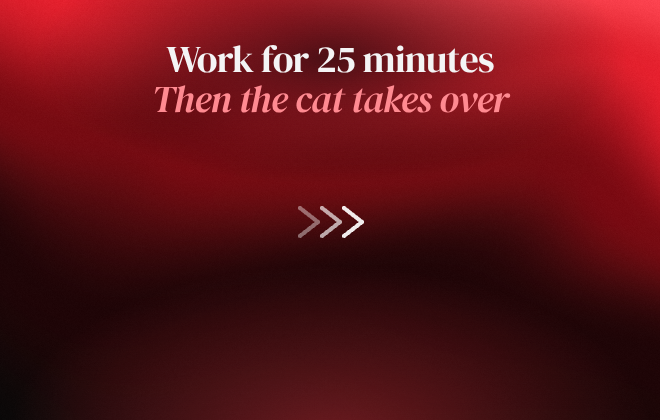
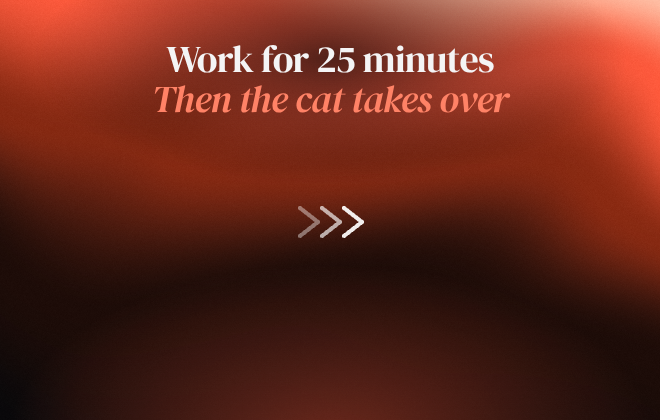
fix(site): go back to the original tomato red
Fé wants the red the site already used (#ff5a3c), not a new crimson.
Restore the original palette and gradient; keep only the F4-style
change: the italic second headline line in the accent (#ff8266) on
the site, the DMG and the social cards. DMG and OG renders refreshed.

Claude-Session: https://claude.ai/code/session_01NzgfqLUAp8qdYXdL5QLj3A

diff --git a/site/styles.css b/site/styles.css
@@ -1,5 +1,5 @@
 /* Maramao website. Plain CSS, no build step. DM Serif Display for the wordmark and headings, system fonts for the rest.
-   Dark, like a Mac app's own site: one accent (Maramao red), hairline borders, a grainy glow behind the hero. */
+   Dark, like a Mac app's own site: one accent (tomato), hairline borders, a grainy glow behind the hero. */
 
 :root {
   --bg: #08080a;
@@ -11,8 +11,8 @@
   --ink: #f4f4f5;
   --muted: #a1a1aa;
   --dim: #71717a;
-  --accent: #ff3b47;
-  --accent-soft: rgb(255 59 71 / 16%);
+  --accent: #ff5a3c;
+  --accent-soft: rgb(255 90 60 / 16%);
   --radius: 18px;
   --wrap: 1120px;
   --display: "DM Serif Display", "New York", Georgia, "Times New Roman", serif;
@@ -96,7 +96,7 @@ p { margin: 0; }
 .hero { position: relative; isolation: isolate; margin-top: -66px; padding: 176px 0 40px; text-align: center; }
 .grainient {
   position: absolute; inset: 0 0 auto; height: min(1100px, 100%); z-index: -1; overflow: hidden; pointer-events: none;
-  background: radial-gradient(60% 50% at 50% 70%, rgb(255 59 71 / 35%), transparent 70%), radial-gradient(40% 40% at 70% 40%, rgb(122 10 18 / 45%), transparent 70%), var(--bg);
+  background: radial-gradient(60% 50% at 50% 70%, rgb(255 90 60 / 35%), transparent 70%), radial-gradient(40% 40% at 70% 40%, rgb(138 42 18 / 45%), transparent 70%), var(--bg);
   -webkit-mask-image: linear-gradient(to bottom, transparent, #000 160px, #000 60%, transparent);
   mask-image: linear-gradient(to bottom, transparent, #000 160px, #000 60%, transparent);
 }
@@ -105,7 +105,7 @@ p { margin: 0; }
 /* A soft dark veil keeps the headline readable over the brightest part of the gradient */
 .grainient::after { content: ""; position: absolute; inset: 0; background: radial-gradient(70% 45% at 50% 22%, rgb(8 8 10 / 72%), transparent 75%); }
 .hero h1 { font-size: clamp(44px, 7.4vw, 84px); letter-spacing: -.02em; max-width: 13em; margin: 0 auto; }
-.hero h1 span { color: #ff8a91; font-style: italic; }
+.hero h1 span { color: #ff8266; font-style: italic; }
 .hero .lead { margin: 22px auto 0; font-size: 19px; color: rgb(244 244 245 / 72%); max-width: 30em; }
 .ctas { display: flex; flex-wrap: wrap; justify-content: center; gap: 12px; margin-top: 36px; }
 .meta { margin-top: 16px; font-size: 13px; color: rgb(244 244 245 / 50%); }
@@ -132,9 +132,9 @@ p { margin: 0; }
 .desk {
   position: absolute; inset: 0;
   background:
-    radial-gradient(80% 70% at 15% 100%, #ff3b47 0%, transparent 60%),
+    radial-gradient(80% 70% at 15% 100%, #ff7a45 0%, transparent 60%),
     radial-gradient(70% 70% at 90% 10%, #6b2bd1 0%, transparent 60%),
-    linear-gradient(160deg, #3b1a5a, #c20c1c);
+    linear-gradient(160deg, #3b1a5a, #c2410c);
 }
 .win {
   position: absolute; left: 12%; right: 12%; top: 12%; bottom: 8%; border-radius: 12px; overflow: hidden;
@@ -217,12 +217,12 @@ section[id] { scroll-margin-top: 84px; }
 .k-space { width: calc(var(--k) * 5); }
 .key svg { width: 14px; height: 14px; }
 .key.hot {
-  color: #fff; background: linear-gradient(180deg, #3a1013, #2a0a0d); border-color: rgb(255 59 71 / 55%);
-  box-shadow: inset 0 1px 0 rgb(255 255 255 / 10%), 0 3px 0 #1a0507, 0 0 0 1px rgb(255 59 71 / 25%), 0 0 36px rgb(255 59 71 / 45%);
+  color: #fff; background: linear-gradient(180deg, #3a1d16, #2a130e); border-color: rgb(255 90 60 / 55%);
+  box-shadow: inset 0 1px 0 rgb(255 255 255 / 10%), 0 3px 0 #1a0906, 0 0 0 1px rgb(255 90 60 / 25%), 0 0 36px rgb(255 90 60 / 45%);
   animation: press 3.2s ease-in-out infinite;
 }
 .kb-row:nth-child(3) .key.hot { animation-delay: .12s; }
-@keyframes press { 0%, 70%, 100% { transform: none; } 78%, 88% { transform: translateY(3px); box-shadow: inset 0 1px 0 rgb(255 255 255 / 10%), 0 0 0 #1a0507, 0 0 0 1px rgb(255 59 71 / 40%), 0 0 48px rgb(255 59 71 / 70%); } }
+@keyframes press { 0%, 70%, 100% { transform: none; } 78%, 88% { transform: translateY(3px); box-shadow: inset 0 1px 0 rgb(255 255 255 / 10%), 0 0 0 #1a0906, 0 0 0 1px rgb(255 90 60 / 40%), 0 0 48px rgb(255 90 60 / 70%); } }
 @media (prefers-reduced-motion: reduce) { .key.hot { animation: none; } .caret { animation: none; } }
 @media (max-width: 760px) { .kb-wrap { justify-content: flex-start; -webkit-mask-image: linear-gradient(to right, #000 92%, transparent); mask-image: linear-gradient(to right, #000 92%, transparent); } .kb { --k: 36px; --g: 5px; padding: 10px; } .k-wider { width: calc(var(--k) * 1.2); } .key { font-size: 13px; border-radius: 9px; } .k-mod small { display: none; } }
 
@@ -269,7 +269,7 @@ section[id] { scroll-margin-top: 84px; }
 .cell.wide { grid-column: span 2; }
 .vis {
   height: 150px; margin: -8px -8px 24px; display: flex; align-items: center; justify-content: center; gap: 8px;
-  border-radius: 12px; background: radial-gradient(60% 80% at 50% 50%, rgb(255 59 71 / 7%), transparent 70%);
+  border-radius: 12px; background: radial-gradient(60% 80% at 50% 50%, rgb(255 90 60 / 7%), transparent 70%);
 }
 .vis-col { flex-direction: column; gap: 14px; }
 @media (max-width: 820px) { .bento { grid-template-columns: minmax(0, 1fr); } .cell.wide { grid-column: auto; } }
@@ -286,11 +286,11 @@ kbd {
 }
 .mini-bar svg { width: 14px; height: 14px; flex: none; }
 .mini-bar .sp { margin-left: auto; }
-.mini-bar b { font-variant-numeric: tabular-nums; font-weight: 600; padding: 4px 8px; border-radius: 6px; background: var(--accent-soft); color: #ffc4c7; box-shadow: 0 0 24px rgb(255 59 71 / 30%); }
+.mini-bar b { font-variant-numeric: tabular-nums; font-weight: 600; padding: 4px 8px; border-radius: 6px; background: var(--accent-soft); color: #ffc2b3; box-shadow: 0 0 24px rgb(255 90 60 / 30%); }
 .mini-bar i { font-style: normal; color: var(--muted); }
 .chips { display: flex; flex-wrap: wrap; justify-content: center; gap: 8px; }
 .chip { display: inline-flex; align-items: center; gap: 7px; padding: 8px 12px; border-radius: 10px; border: 1px solid var(--line-strong); background: rgb(255 255 255 / 4%); font-size: 13px; font-weight: 600; color: var(--muted); }
-.chip.on { background: var(--accent-soft); border-color: rgb(255 59 71 / 40%); color: #ffc4c7; }
+.chip.on { background: var(--accent-soft); border-color: rgb(255 90 60 / 40%); color: #ffc2b3; }
 .dot { width: 7px; height: 7px; border-radius: 50%; background: var(--accent); box-shadow: 0 0 10px var(--accent); }
 .wait { font-size: 13px; color: var(--dim); font-weight: 600; }
 .setting { display: flex; align-items: center; gap: 18px; padding: 14px 16px; border-radius: 12px; background: rgb(0 0 0 / 30%); border: 1px solid var(--line); font-size: 14px; font-weight: 600; }
@@ -306,18 +306,18 @@ kbd {
 .dial b small { font-size: 11px; font-weight: 500; color: var(--dim); letter-spacing: 0; }
 .dial em { grid-area: name; font-style: normal; }
 .dial.on { color: var(--ink); }
-.dial.on i { background: conic-gradient(#e4e4e7 0 calc(var(--w) / (var(--w) + var(--b)) * 100%), var(--accent) 0); filter: drop-shadow(0 0 14px rgb(255 59 71 / 40%)); }
+.dial.on i { background: conic-gradient(#e4e4e7 0 calc(var(--w) / (var(--w) + var(--b)) * 100%), var(--accent) 0); filter: drop-shadow(0 0 14px rgb(255 90 60 / 40%)); }
 .dial.on b { color: var(--ink); }
 
 /* Closing call to action */
 .outro { position: relative; text-align: center; padding: 140px 0; overflow: hidden; }
 .outro::before {
   content: ""; position: absolute; left: 50%; top: 40px; width: 720px; max-width: 100%; height: 420px; transform: translateX(-50%); z-index: -1;
-  background: radial-gradient(closest-side, rgb(255 59 71 / 20%), transparent);
+  background: radial-gradient(closest-side, rgb(255 90 60 / 20%), transparent);
 }
 .outro .clip {
   width: 132px; height: 132px; margin: 0 auto 32px; border-radius: 30px; overflow: hidden;
-  border: 1px solid var(--line-strong); box-shadow: 0 20px 60px -10px rgb(255 59 71 / 35%);
+  border: 1px solid var(--line-strong); box-shadow: 0 20px 60px -10px rgb(255 90 60 / 35%);
 }
 .outro .clip video, .outro .clip img { width: 100%; height: 100%; object-fit: cover; }
 .outro h1, .outro h2 { font-size: clamp(36px, 5.5vw, 56px); }
@@ -348,12 +348,12 @@ kbd {
 .foot-grid {
   position: relative; display: grid; grid-template-columns: 1.6fr repeat(2, minmax(0, 1fr)); gap: 32px;
   padding: 44px 40px; border-radius: 24px; overflow: hidden;
-  background: radial-gradient(80% 120% at 50% 0%, rgb(255 59 71 / 7%), transparent 60%), linear-gradient(180deg, rgb(255 255 255 / 3.5%), rgb(255 255 255 / 1%));
+  background: radial-gradient(80% 120% at 50% 0%, rgb(255 90 60 / 7%), transparent 60%), linear-gradient(180deg, rgb(255 255 255 / 3.5%), rgb(255 255 255 / 1%));
   box-shadow: inset 0 0 0 1px rgb(255 255 255 / 5%);
 }
 .foot-grid::before {
   content: ""; position: absolute; inset: 0 10% auto; height: 1px;
-  background: linear-gradient(90deg, transparent, rgb(255 130 136 / 55%), transparent);
+  background: linear-gradient(90deg, transparent, rgb(255 160 130 / 55%), transparent);
 }
 .foot h2 { margin: 0 0 14px; font: 600 13px/1.2 var(--font); letter-spacing: 0; color: var(--ink); }
 .foot ul { list-style: none; margin: 0; padding: 0; display: grid; gap: 10px; }

diff --git a/scripts/dmg-background/background.html b/scripts/dmg-background/background.html
@@ -22,10 +22,10 @@
   .grainient { position: absolute; inset: 0; }
   .grainient canvas { position: absolute; inset: 0; width: 100%; height: 100%; }
   /* A warm glow under the icons and a dark veil behind the headline, as on the site */
-  .glow { position: absolute; inset: 0; background: radial-gradient(70% 60% at 50% 105%, rgb(255 59 71 / 38%), transparent 70%); }
+  .glow { position: absolute; inset: 0; background: radial-gradient(70% 60% at 50% 105%, rgb(255 90 60 / 38%), transparent 70%); }
   .veil { position: absolute; inset: 0; background: radial-gradient(60% 40% at 50% 14%, rgb(8 8 10 / 70%), transparent 75%); }
   h1 { position: absolute; left: 0; right: 0; top: 40px; margin: 0; text-align: center; color: #f4f4f5; font-family: "DM Serif Display", Georgia, serif; font-size: 38px; font-weight: 400; letter-spacing: -.02em; line-height: 1.05; }
-  h1 span { color: #ff8a91; font-style: italic; }
+  h1 span { color: #ff8266; font-style: italic; }
   .arrow { position: absolute; left: 290px; top: 202px; }
   .icon { position: absolute; top: 158px; width: 128px; text-align: center; color: #fff; font-size: 13px; }
   .icon img, .icon svg { display: block; width: 128px; height: 128px; }
@@ -34,7 +34,7 @@
 </head>
 <body>
 <div class="bg" id="bg">
-  <div class="grainient" data-grainient data-colors="#0a0808,#1f0507,#7a0a12,#e8202e,#ff4552" data-angle="20" data-speed="0.8" data-flow="0.9" data-silk="0.3" data-grain-amount="0.03" data-grain-size="0.5" data-dpr="2" data-interactive="false"><canvas></canvas></div>
+  <div class="grainient" data-grainient data-colors="#08080a,#1d0c08,#8a2a12,#ff5a3c,#ffc2a8" data-angle="20" data-speed="0.8" data-flow="0.9" data-silk="0.3" data-grain-amount="0.03" data-grain-size="0.5" data-dpr="2" data-interactive="false"><canvas></canvas></div>
   <div class="glow"></div>
   <div class="veil"></div>
   <h1>Work for 25 minutes<br><span>Then the cat takes over</span></h1>

diff --git a/scripts/og/og.html b/scripts/og/og.html
@@ -15,7 +15,7 @@
   .brand { display: flex; align-items: center; gap: 16px; font-family: "DM Serif Display", serif; font-weight: 400; font-size: 40px; letter-spacing: -0.01em; }
   .brand img { width: 60px; height: 60px; border-radius: 15px; }
   h1 { margin: auto 0 0; font-family: "DM Serif Display", serif; font-weight: 400; font-size: 66px; line-height: 1.04; letter-spacing: -0.02em; }
-  h1 span { display: block; font-style: italic; color: #ff8a91; }
+  h1 span { display: block; font-style: italic; color: #ff8266; }
   p { margin: 28px 0 0; font-weight: 500; font-size: 27px; color: rgb(244 244 245 / 72%); letter-spacing: -0.01em; }
   .cat { position: absolute; right: 76px; top: 50%; width: 370px; height: 370px; transform: translateY(-50%) rotate(3deg);
          border-radius: 86px; overflow: hidden; box-shadow: 0 30px 80px rgb(0 0 0 / 45%), 0 0 0 1px rgb(255 255 255 / 14%); }
@@ -24,7 +24,7 @@
 </head>
 <body>
 <div id="card">
-  <div class="grainient" data-grainient data-colors="#0a0808,#1f0507,#7a0a12,#e8202e,#ff4552" data-angle="20" data-speed="0.8" data-flow="0.9" data-silk="0.3" data-grain-amount="0.03" data-dpr="1"><canvas></canvas></div>
+  <div class="grainient" data-grainient data-colors="#08080a,#1d0c08,#8a2a12,#ff5a3c,#ffc2a8" data-angle="20" data-speed="0.8" data-flow="0.9" data-silk="0.3" data-grain-amount="0.03" data-dpr="1"><canvas></canvas></div>
   <div class="shade"></div>
   <div class="copy">
     <div class="brand"><img src="../../Resources/logo/logo.png" alt=""> Maramao</div>

diff --git a/site/it/index.html b/site/it/index.html
@@ -75,7 +75,7 @@
 
   <main id="main">
     <section class="hero" aria-labelledby="title">
-      <div class="grainient" data-grainient data-colors="#0a0808,#1f0507,#7a0a12,#e8202e,#ff4552" data-angle="20" data-speed="0.8" data-flow="0.9" data-silk="0.3" data-grain-amount="0.03" data-grain-size="0.5" data-dpr="2" aria-hidden="true"><canvas></canvas></div>
+      <div class="grainient" data-grainient data-colors="#08080a,#1d0c08,#8a2a12,#ff5a3c,#ffc2a8" data-angle="20" data-speed="0.8" data-flow="0.9" data-silk="0.3" data-grain-amount="0.03" data-grain-size="0.5" data-dpr="2" aria-hidden="true"><canvas></canvas></div>
       <div class="wrap">
         <h1 id="title">Lavori 25 minuti<br><span>Poi arriva il gatto</span></h1>
         <p class="lead">Un timer Pomodoro nella barra dei menu del Mac. Quando è ora di staccare, un gatto si prende lo schermo.</p>

diff --git a/site/index.html b/site/index.html
@@ -75,7 +75,7 @@
 
   <main id="main">
     <section class="hero" aria-labelledby="title">
-      <div class="grainient" data-grainient data-colors="#0a0808,#1f0507,#7a0a12,#e8202e,#ff4552" data-angle="20" data-speed="0.8" data-flow="0.9" data-silk="0.3" data-grain-amount="0.03" data-grain-size="0.5" data-dpr="2" aria-hidden="true"><canvas></canvas></div>
+      <div class="grainient" data-grainient data-colors="#08080a,#1d0c08,#8a2a12,#ff5a3c,#ffc2a8" data-angle="20" data-speed="0.8" data-flow="0.9" data-silk="0.3" data-grain-amount="0.03" data-grain-size="0.5" data-dpr="2" aria-hidden="true"><canvas></canvas></div>
       <div class="wrap">
         <h1 id="title">Work for 25 minutes<br><span>Then the cat takes over</span></h1>
         <p class="lead">A Pomodoro timer for your Mac's menu bar. When it's break time, a cat takes over your screen.</p>
